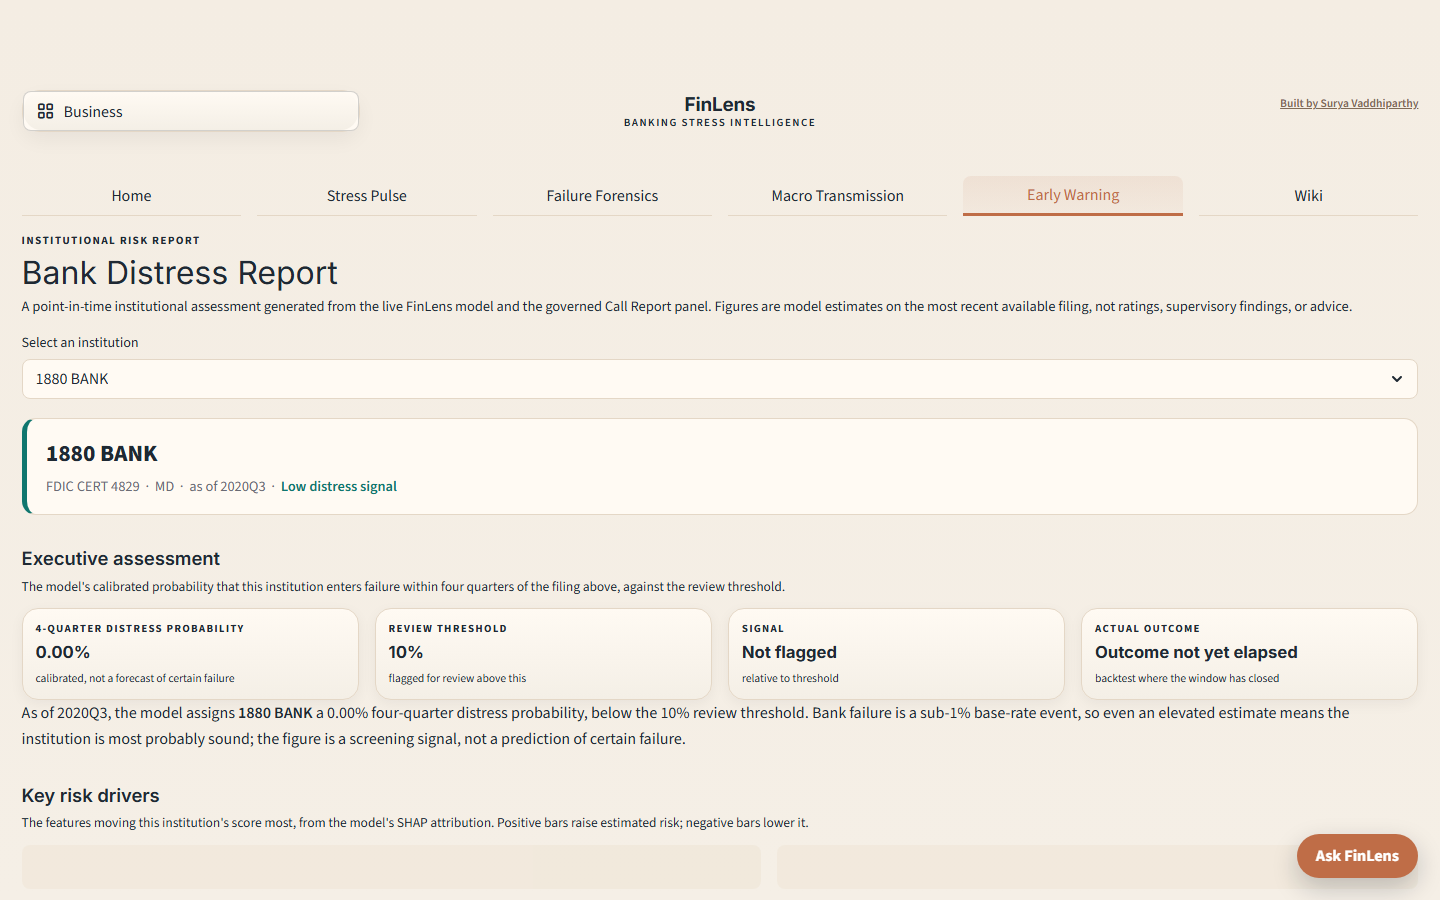
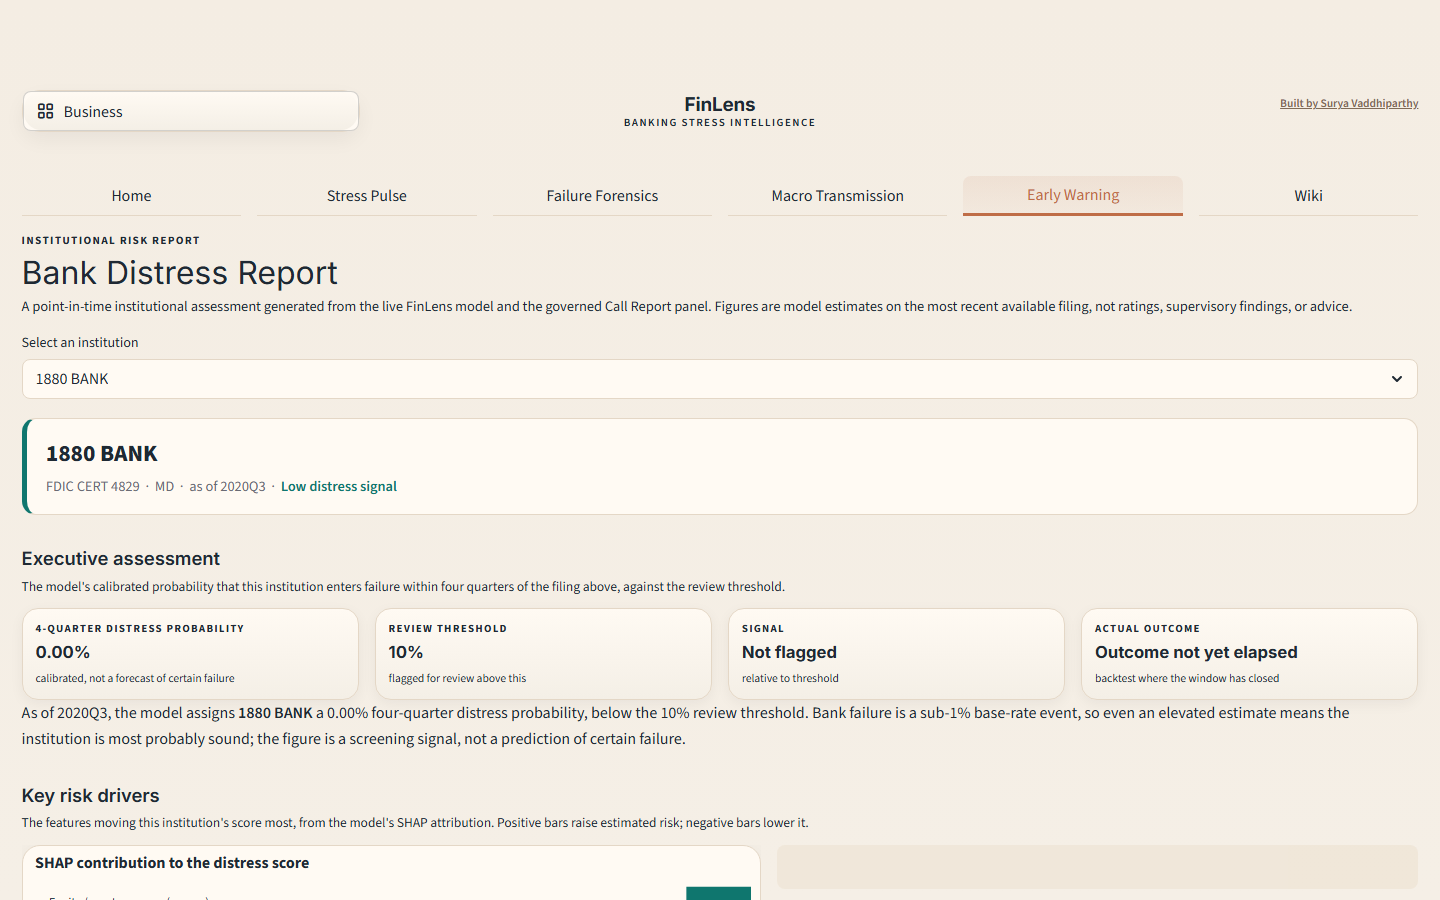
Resolve banks to the active entity; fix report button on cached/all bank answers
- Fixed "Fifth Third Bank" (and any name mapping to several CERTs) resolving to a legacy charter
  ending 2009: detection now prefers the freshest filing and the PRIMARY entity (name == typed
  name + a 'national association'/'bank' suffix, not a regional variant like CALIFORNIA/DEARBORN).
- Added phrase-prefix + guarded token/single-word matching so short forms resolve to the right
  giant: JPMorgan Chase, Bank of America, Wells Fargo, Citibank, TD Bank, U.S. Bank, Synchrony,
  Discover all -> the main National Association entity at 2026Q1; methodology questions still
  detect no bank (no false positives); common English-word bank names excluded from 1-word match.
- "Full report" button: enrich any answer (incl. cached examples) with bank_name/bank_cert so the
  button always renders; verified chat -> Open report navigates to the bank's report (E2E).

diff --git a/rag/graph.py b/rag/graph.py
@@ -58,34 +58,127 @@ _SHORT_FORMS = {
 
 @lru_cache(maxsize=1)
 def _bank_index() -> list:
-    """Every bank in the panel as (name_lower, cert, display_name), longest name first, so a
-    question can name ANY institution (not just the failures) and be resolved by longest match."""
+    """Every bank in the panel as (name_lower, cert, display_name, quarter), so a question can
+    name ANY institution (not just failures). quarter lets us prefer the active entity when one
+    name maps to several CERTs (legacy/merged charters)."""
     from finlens_ml import scenario
     items = []
     for _, r in scenario.live_bank_directory().iterrows():
         nm = str(r.get("bank_name") or "").strip()
         # multi-word, reasonably specific names only, to avoid matching generic words
         if len(nm) >= 7 and " " in nm:
-            items.append((nm.lower(), int(r["cert"]), nm))
-    items.sort(key=lambda x: len(x[0]), reverse=True)
+            items.append((nm.lower(), int(r["cert"]), nm, str(r.get("quarter") or "")))
     return items
 
 
 @lru_cache(maxsize=1)
 def _cert_to_name() -> dict:
-    return {cert: disp for _nl, cert, disp in _bank_index()}
+    return {cert: disp for _nl, cert, disp, _q in _bank_index()}
+
+
+_COMMON_WORD_BANKS = {
+    "regions", "discover", "commerce", "valley", "citizens", "heritage", "premier", "summit",
+    "pinnacle", "liberty", "century", "pacific", "provident", "sterling", "independence",
+    "cornerstone", "signature", "republic", "columbia", "amerant", "pathward",
+}
+_GENERIC_NAME_WORDS = {
+    "bank", "banks", "national", "association", "na", "the", "of", "company", "co", "trust",
+    "and", "financial", "corp", "corporation", "inc", "savings", "federal", "fsb", "holding",
+    "group", "bancorp", "banc", "members", "first", "community", "state",
+}
+
+
+def _name_tokens(name: str) -> set:
+    import re
+    toks = re.findall(r"[a-z0-9]+", name.lower())
+    return {t for t in toks if t not in _GENERIC_NAME_WORDS and len(t) >= 3}
+
+
+_NA_SUFFIXES = (", national association", " national association", ", n.a.", " n.a.",
+                ", national assn", " bank, national association")
+
+
+def _pick_primary(cands: list, phrase: str):
+    """From entities whose name starts with `phrase`, pick the PRIMARY one: the bank whose name
+    is just the phrase plus a 'national association'/'bank' suffix (no regional qualifier like
+    'CALIFORNIA' or 'DEARBORN'), preferring the freshest filing. Falls back to freshest+shortest.
+    Returns (cert, display_name)."""
+    def core(nl: str) -> str:
+        for s in _NA_SUFFIXES:
+            if nl.endswith(s):
+                return nl[: -len(s)].strip().rstrip(",").strip()
+        return nl
+    primary_cores = {phrase, phrase + " bank", phrase.removesuffix(" bank")}
+    primary = [c for c in cands if core(c[0]) in primary_cores]
+    pool = primary or cands
+    top_q = max(c[3] for c in pool)
+    pool = [c for c in pool if c[3] == top_q]          # freshest filing
+    pool.sort(key=lambda c: len(c[0]))                  # then the least-qualified (shortest) name
+    return pool[0][1], pool[0][2]
 
 
 def _detect_bank(question: str):
-    """Resolve any bank the question names -> (cert, display_name), or None."""
+    """Resolve any bank the question names -> (cert, display_name), or None. When a name maps to
+    several CERTs (e.g. a legacy charter ending 2009 plus the active 2026 entity), prefer the one
+    with the freshest filing so 'tell me about Fifth Third Bank' resolves to the active bank."""
     q = question.lower()
     for frag, cert in _SHORT_FORMS.items():
         if frag in q:
             return cert, _cert_to_name().get(cert, frag.title())
-    for name_lower, cert, disp in _bank_index():  # longest names first
+    idx = _bank_index()
+
+    import re
+
+    _STOP_FIRST = {"the", "a", "an", "of", "and", "what", "how", "why", "tell", "me", "about",
+                   "is", "are", "was", "did", "does", "do", "it", "this", "that", "model",
+                   "data", "give", "show", "happened", "to", "for", "on", "in"}
+
+    # 1) exact-ish: the longest full bank name that appears verbatim in the question
+    matched = None
+    for name_lower, _cert, _disp, _qtr in sorted(idx, key=lambda x: len(x[0]), reverse=True):
         if name_lower in q:
-            return cert, disp
-    return None
+            matched = name_lower
+            break
+
+    # 2) phrase-prefix: a contiguous phrase from the question that a bank name STARTS WITH
+    # (handles "Bank of America", "JPMorgan Chase" whose full FDIC name is longer than typed).
+    if matched is None:
+        words = re.findall(r"[a-z0-9&.]+", q)
+        for n in range(min(6, len(words)), 0, -1):  # longest phrases first, down to single word
+            for i in range(len(words) - n + 1):
+                seg = words[i:i + n]
+                if seg[0] in _STOP_FIRST:
+                    continue
+                # single-word match must be a distinctive, non-generic name token (and not a
+                # common English word that happens to be a bank name; those resolve via "<X> bank")
+                if n == 1 and (seg[0] in _GENERIC_NAME_WORDS or len(seg[0]) < 6
+                               or seg[0] in _COMMON_WORD_BANKS):
+                    continue
+                phrase = " ".join(seg)
+                if len(phrase) < 6:
+                    continue
+                if any(nl.startswith(phrase) for nl, _c, _d, _qt in idx):
+                    matched = phrase
+                    break
+            if matched:
+                break
+
+    if matched is not None:
+        cands = [(nl, cert, disp, qtr) for (nl, cert, disp, qtr) in idx if nl.startswith(matched)]
+        return _pick_primary(cands, matched)
+
+    # 3) token-subset (last resort): a bank whose >=2 distinctive tokens all appear in the
+    # question. Requiring two tokens avoids a single common word (e.g. "america") mis-matching.
+    qtokens = set(re.findall(r"[a-z0-9]+", q))
+    best = None  # ((n_tokens, char_len, quarter), cert, disp)
+    for nl, cert, disp, qtr in idx:
+        toks = _name_tokens(nl)
+        if len(toks) < 2 or not toks <= qtokens:
+            continue
+        key = (len(toks), sum(len(t) for t in toks), qtr)
+        if best is None or key > best[0]:
+            best = (key, cert, disp)
+    return (best[1], best[2]) if best else None
 
 
 # ---- nodes ----

diff --git a/streamlit_app/lib/chat_widget.py b/streamlit_app/lib/chat_widget.py
@@ -37,17 +37,31 @@ def _demo_cache() -> dict:
     return json.loads(p.read_text()) if p.exists() else {}
 
 
+def _with_bank(out: dict, question: str) -> dict:
+    """Ensure a bank-related answer carries bank_name/bank_cert so the 'full report' button
+    renders (cached demo answers don't include these)."""
+    if not out.get("bank_name"):
+        try:
+            from rag.graph import _detect_bank
+            hit = _detect_bank(question)
+            if hit:
+                out = {**out, "bank_cert": hit[0], "bank_name": hit[1]}
+        except Exception:  # noqa: BLE001
+            pass
+    return out
+
+
 def _ask(question: str, *, example: bool) -> dict:
     """Starter examples are free (cached or run without spending budget); user-typed questions
     count against the per-session live budget. Bank questions answer instantly (deterministic,
     model-grounded); only open-ended questions hit the local LLM."""
     demo = _demo_cache()
     if question in demo:
-        return {**demo[question], "question": question}
+        return _with_bank({**demo[question], "question": question}, question)
     if not example:
         st.session_state["chat_live_count"] = st.session_state.get("chat_live_count", 0) + 1
     try:
-        return _backend()(question)
+        return _with_bank(_backend()(question), question)
     except Exception as exc:  # noqa: BLE001
         return {"question": question, "answer": f"The local assistant is unavailable: {exc}",
                 "citations": [], "used_llm": False}